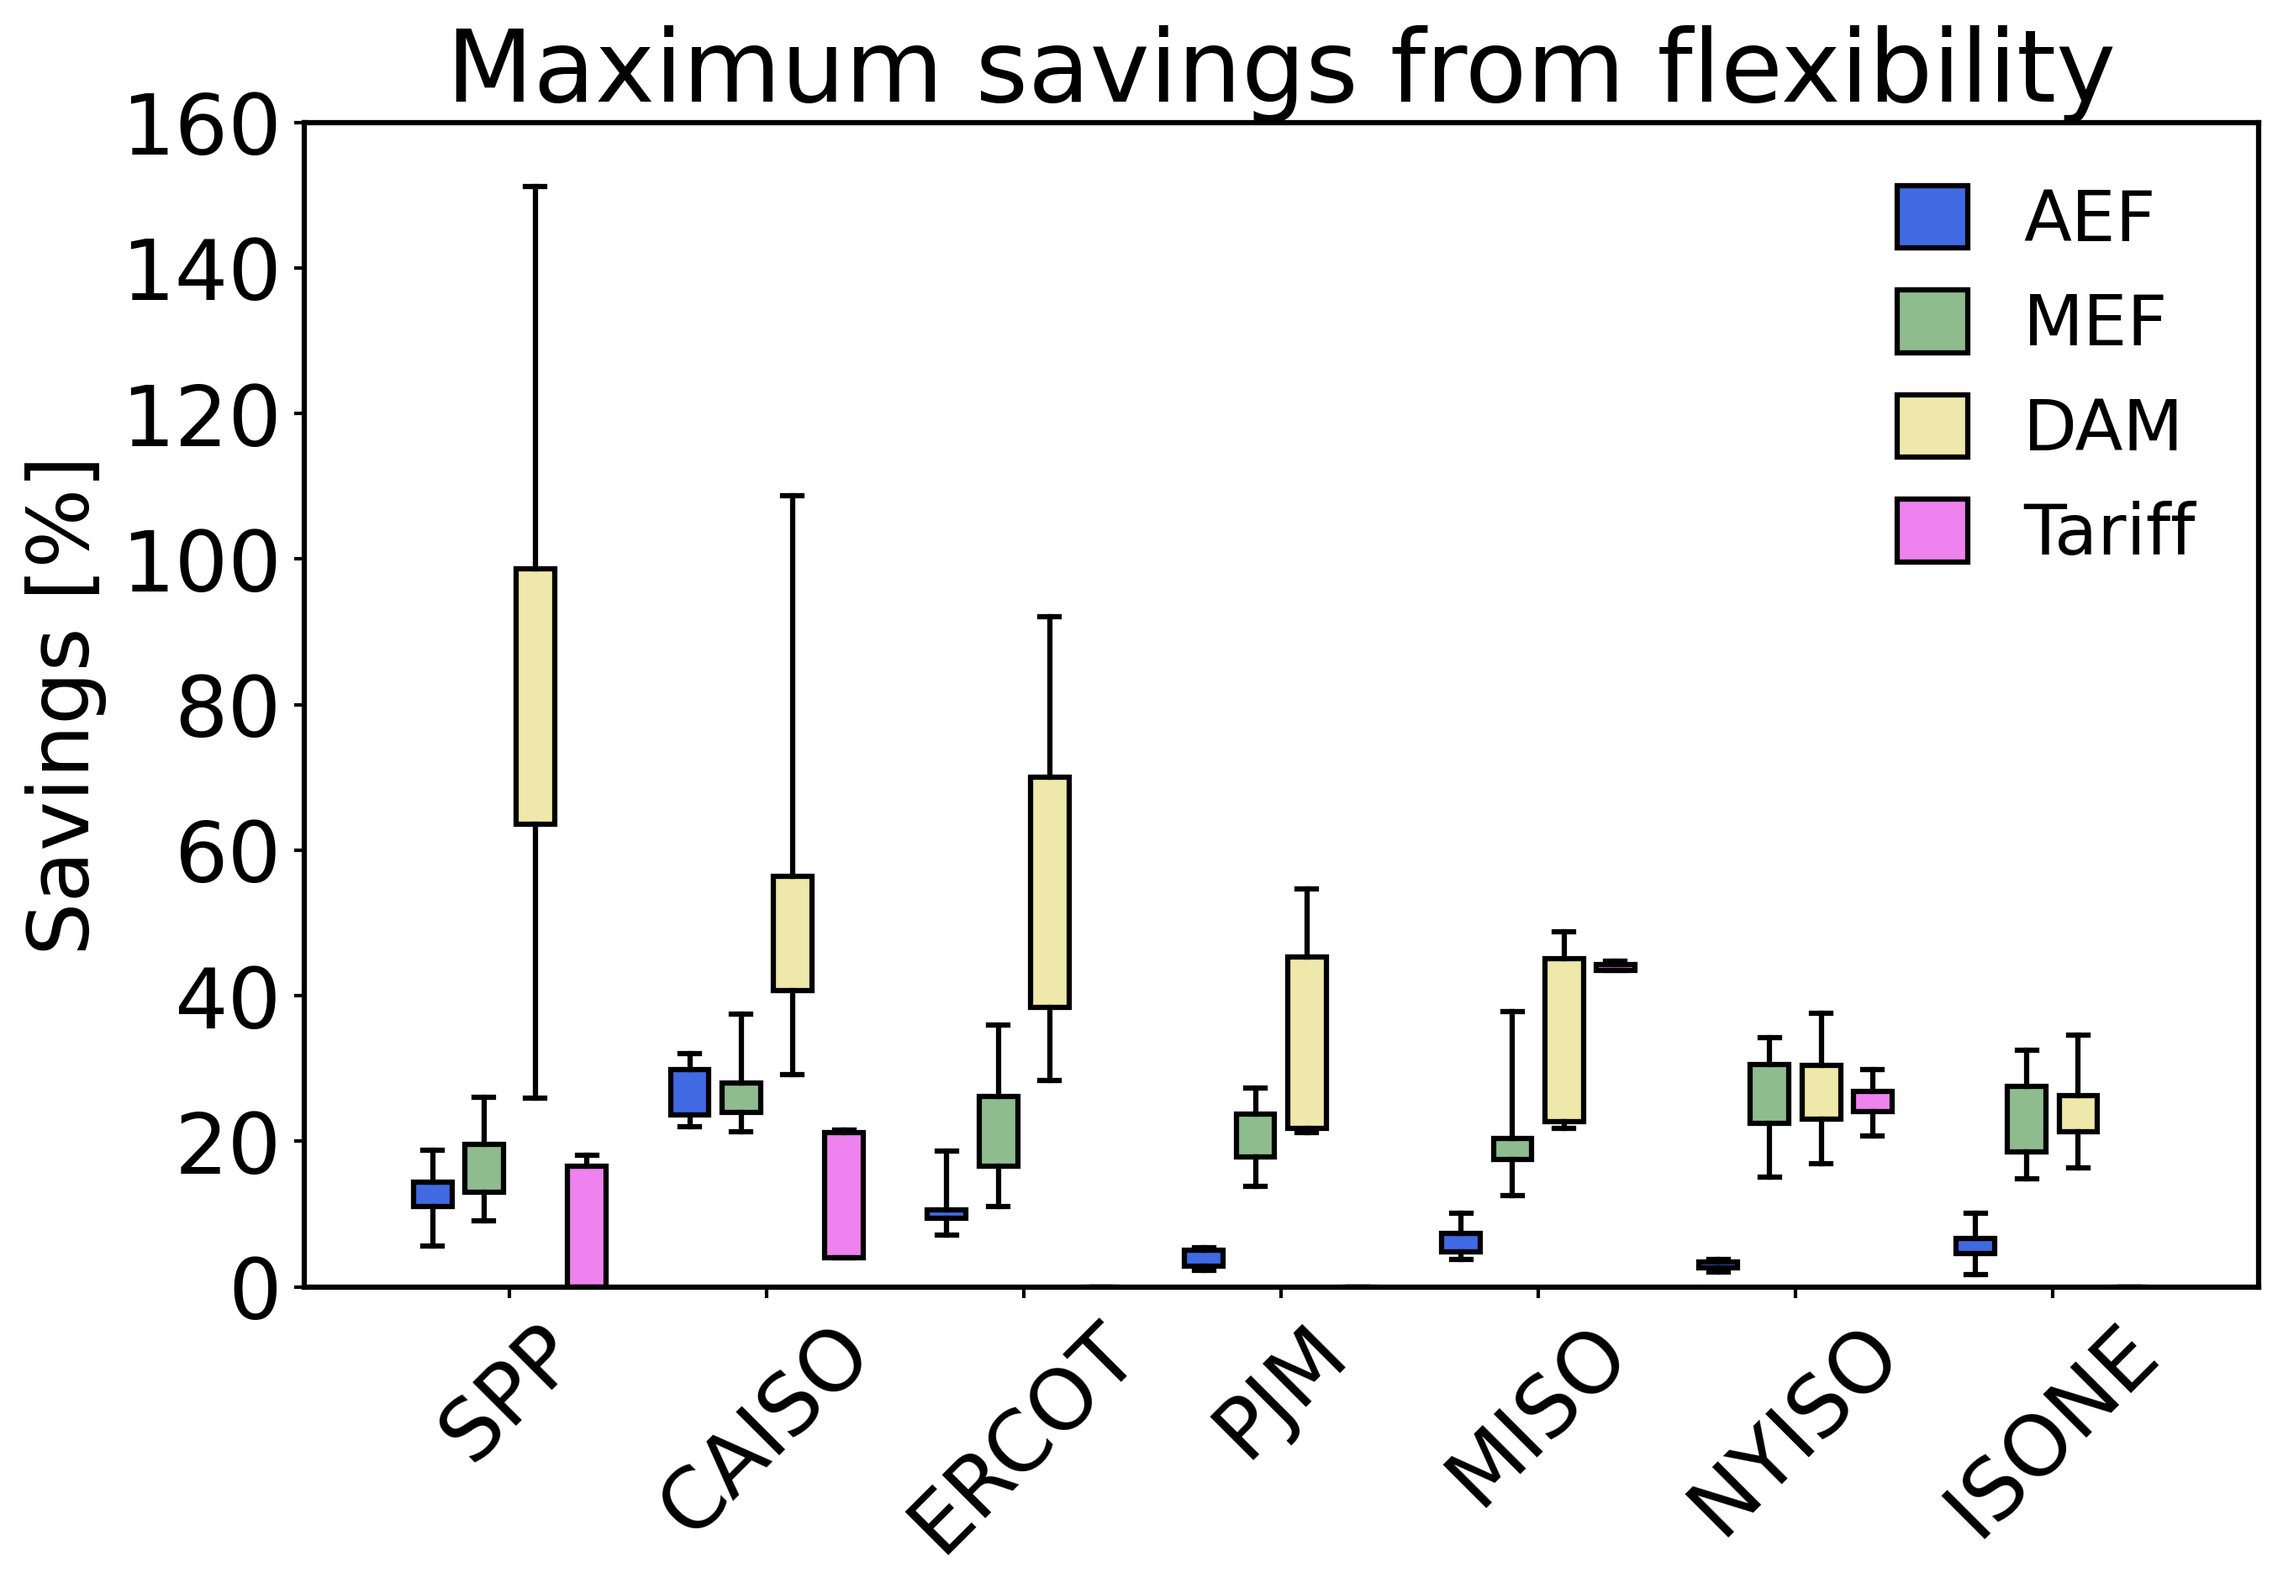
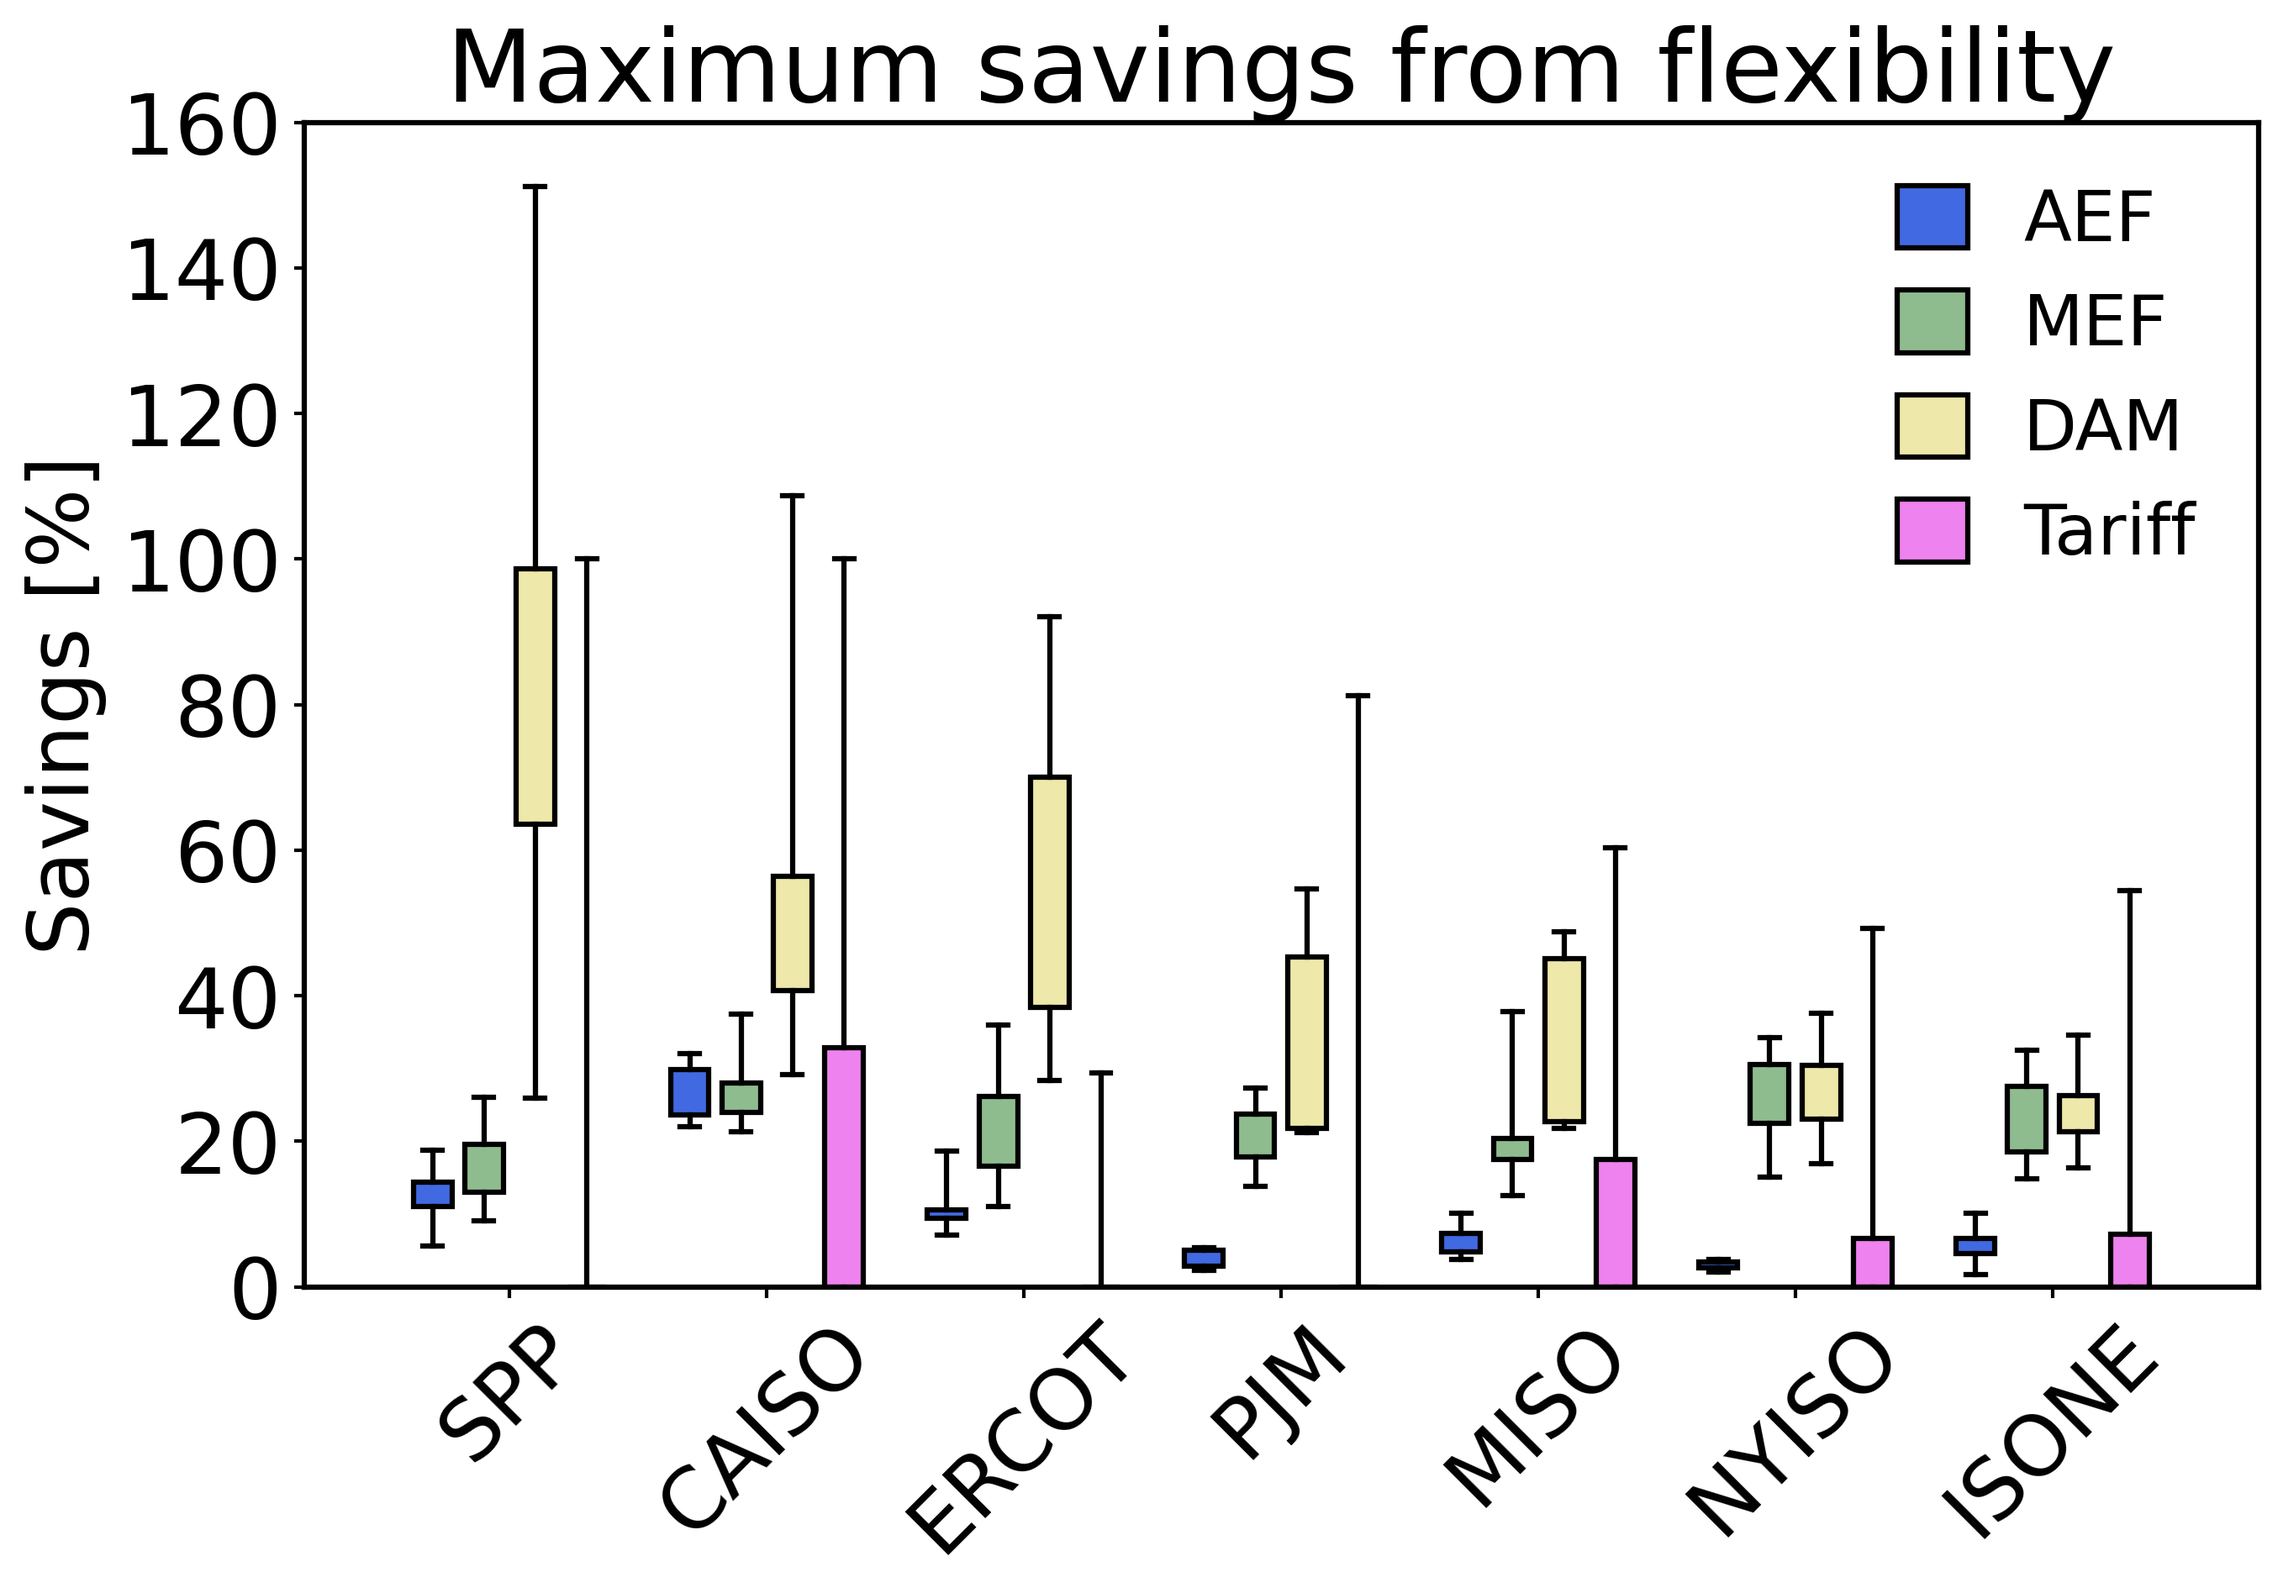
Hotfix for the boxplot plotting and CSV saving

diff --git a/paper_figures/code/maxsavings_boxplot.py b/paper_figures/code/maxsavings_boxplot.py
@@ -33,7 +33,6 @@ tariff_savings_sweep = []
 for i, reg in enumerate(regions):
     region_list = []
     for j, month in enumerate(month_arr):
-        month_list = []
         print(f"Processing region: {reg}, month: {month}")
 
         # MEF
@@ -79,11 +78,9 @@ for i, reg in enumerate(regions):
                     enddate_dt=enddate_dt,
                     uptime_equality=False
                 )
-                month_list.append(tariff_savings)
+                region_list.append(tariff_savings)
             except ZeroDivisionError:
                 print(f"ZeroDivisionError in tariff {tariff['label'].values[0]}")
-
-        region_list.append(month_list)
 
     tariff_savings_sweep.append(region_list)
 
@@ -95,11 +92,12 @@ sorted_indices = np.argsort(max_savings)[::-1]
 mef_savings_sweep = mef_savings_sweep[sorted_indices, :]
 aef_savings_sweep = aef_savings_sweep[sorted_indices, :]
 dam_savings_sweep = dam_savings_sweep[sorted_indices, :]
-tariff_savings_sweep = tariff_savings_sweep[sorted_indices, :]
+sorted_tariff_savings_sweep = []
+for i in range(len(tariff_savings_sweep)):
+    sorted_tariff_savings_sweep.append(tariff_savings_sweep[sorted_indices[i]])
 
 # reorder the regions based on sorted indices
 regions = [regions[i] for i in sorted_indices]
-# aef_savings_sweep and tariff_savings_sweep are not used in this plot, but can be calculated similarly if needed
 
 # plot box and whisker
 # create a plot of the emissions savings
@@ -147,7 +145,7 @@ dam_plot = ax.boxplot(
 )
 
 tariff_plot = ax.boxplot(
-    tariff_savings_sweep,
+    sorted_tariff_savings_sweep,
     positions=np.arange(len(regions)) + 0.3,
     widths=0.15,
     tick_labels=regions,
@@ -201,12 +199,28 @@ fig.savefig(
 # save data in a pandas DataFrame
 regions_expanded = np.repeat(regions, len(month_arr))
 months_expanded = np.tile(month_arr, len(regions))
+# when we flatten tariff savings it is of different length,
+# so cannot be included in the DataFrame with MEF, AEF, and DAM
+flat_tariff_savings = [
+    tariff 
+    for region_list in sorted_tariff_savings_sweep 
+    for tariffs in region_list
+]
+tariff_regions = []
+for i, region_list in enumerate(sorted_tariff_savings_sweep):
+    tariff_regions += [regions[i]] * len(reigon_list)
+
+tariff_savings_data = {
+    "region": tariff_regions.flatten(),
+    "tariff_savings": flat_tariff_savings
+}
 savings_data = {
     "region": regions_expanded,
     "month": months_expanded,
     "mef_savings": mef_savings_sweep.flatten(),
     "aef_savings": aef_savings_sweep.flatten(),
     "dam_savings": dam_savings_sweep.flatten(),
-    "tariff_savings": tariff_savings_sweep.flatten()}
+}
 
 pd.DataFrame(savings_data).to_csv(figpath + "/processed_data/savings_limit_boxplot.csv", index=False)
+pd.DataFrame(savings_data).to_csv(figpath + "/processed_data/tariff_savings_limit_boxplot.csv", index=False)
